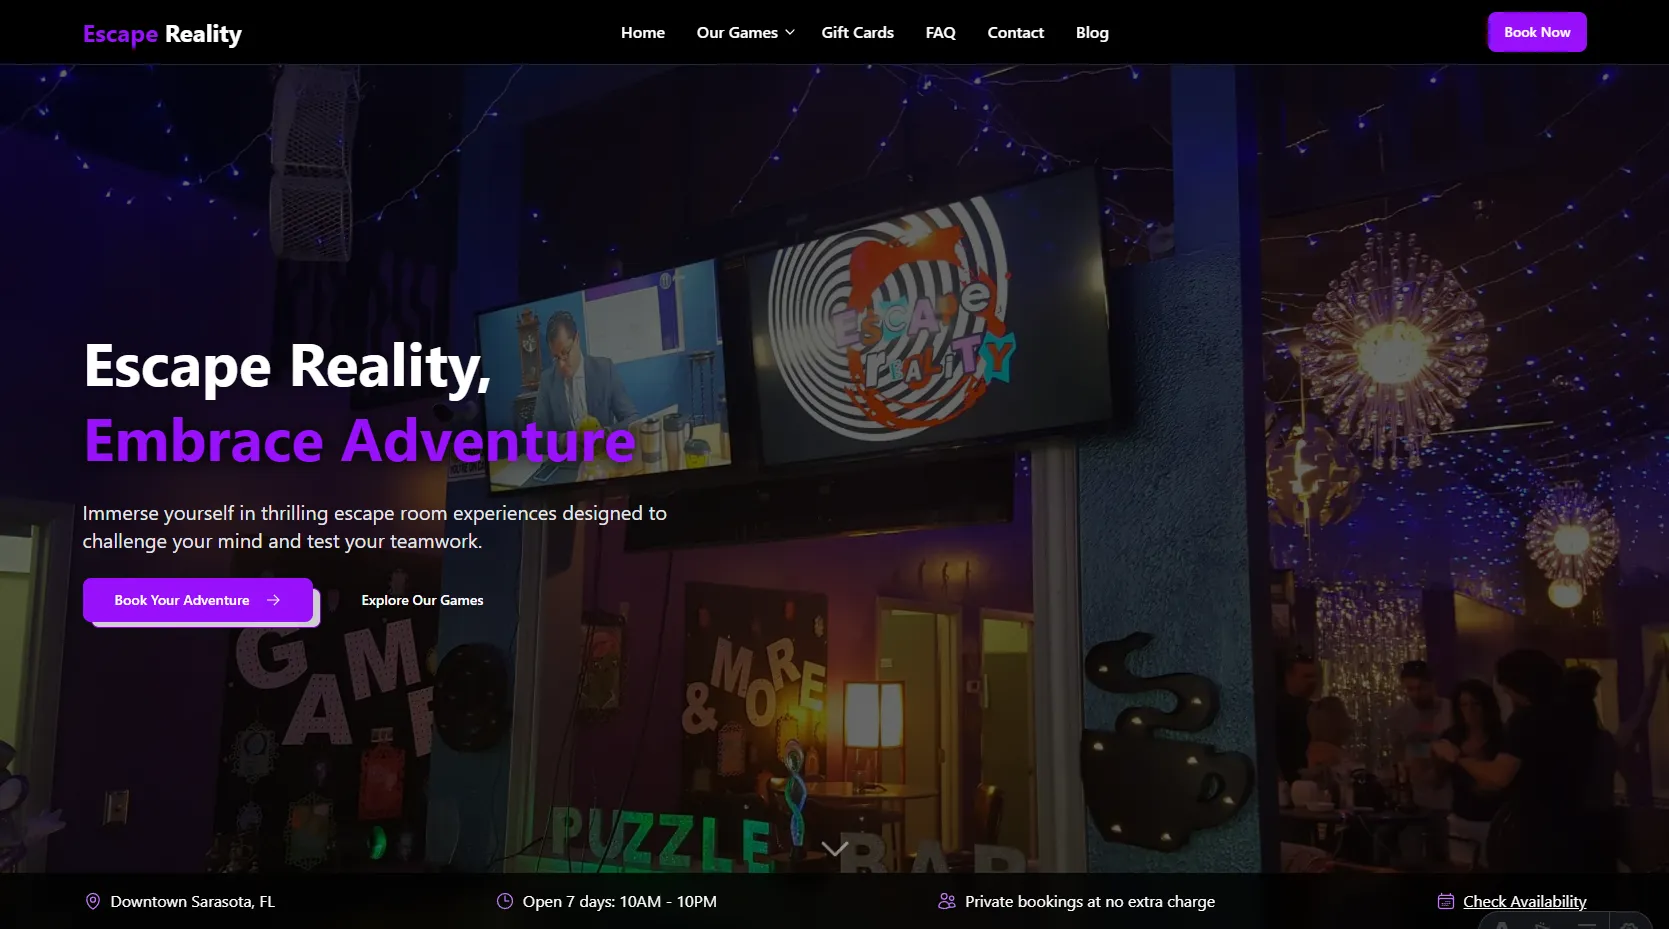
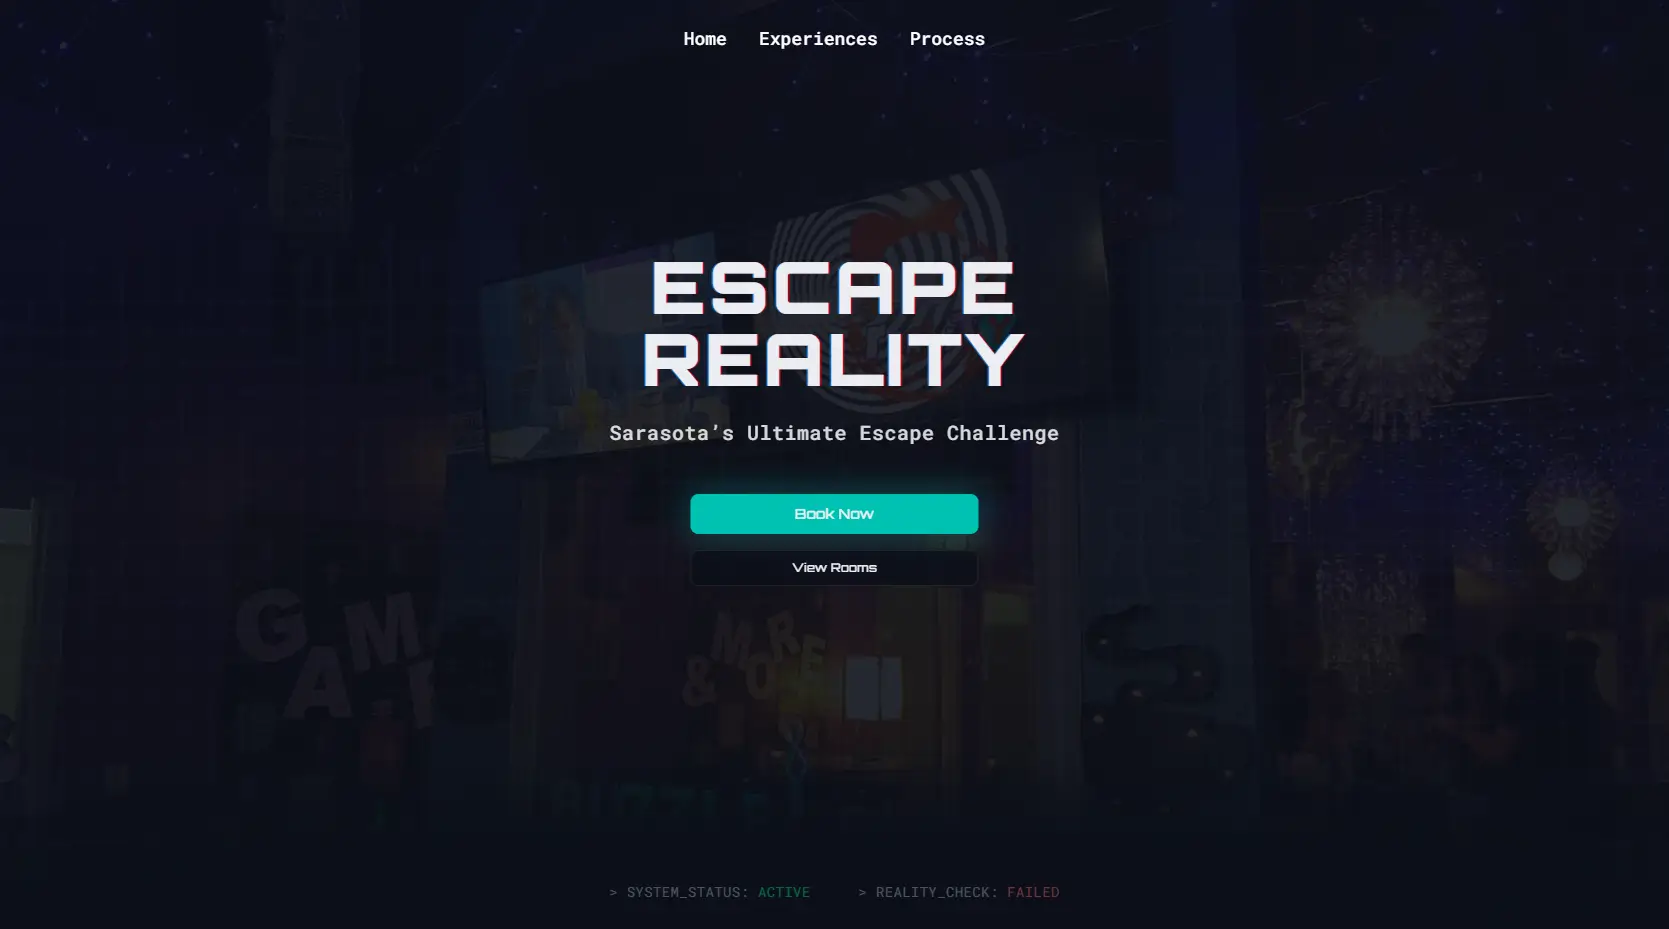
feat: update escape-reality info

diff --git a/src/data/case-studies/escape-reality.md b/src/data/case-studies/escape-reality.md
@@ -7,6 +7,10 @@ author: "Zack F."
 slug: "escape-reality"
 ---
 
+## Updated Design (2025-11-04)
+
+Redesigned this sites landing page to match the more fun playful and sci-fi vibe I was originally trying to achieve. Added animations, unique colors, and fun fonts that helped express the "personality" of the business.
+
 ## Overview
 
 When I first encountered the Escape Reality website, I was immediately struck by its potential. As a premier escape room experience provider, their physical locations offered immersive, captivating adventures—yet their digital presence failed to match this level of engagement. The original website suffered from an outdated visual design, convoluted booking process, and poor mobile responsiveness, creating a disconnect between their exceptional in-person experiences and their online representation.
